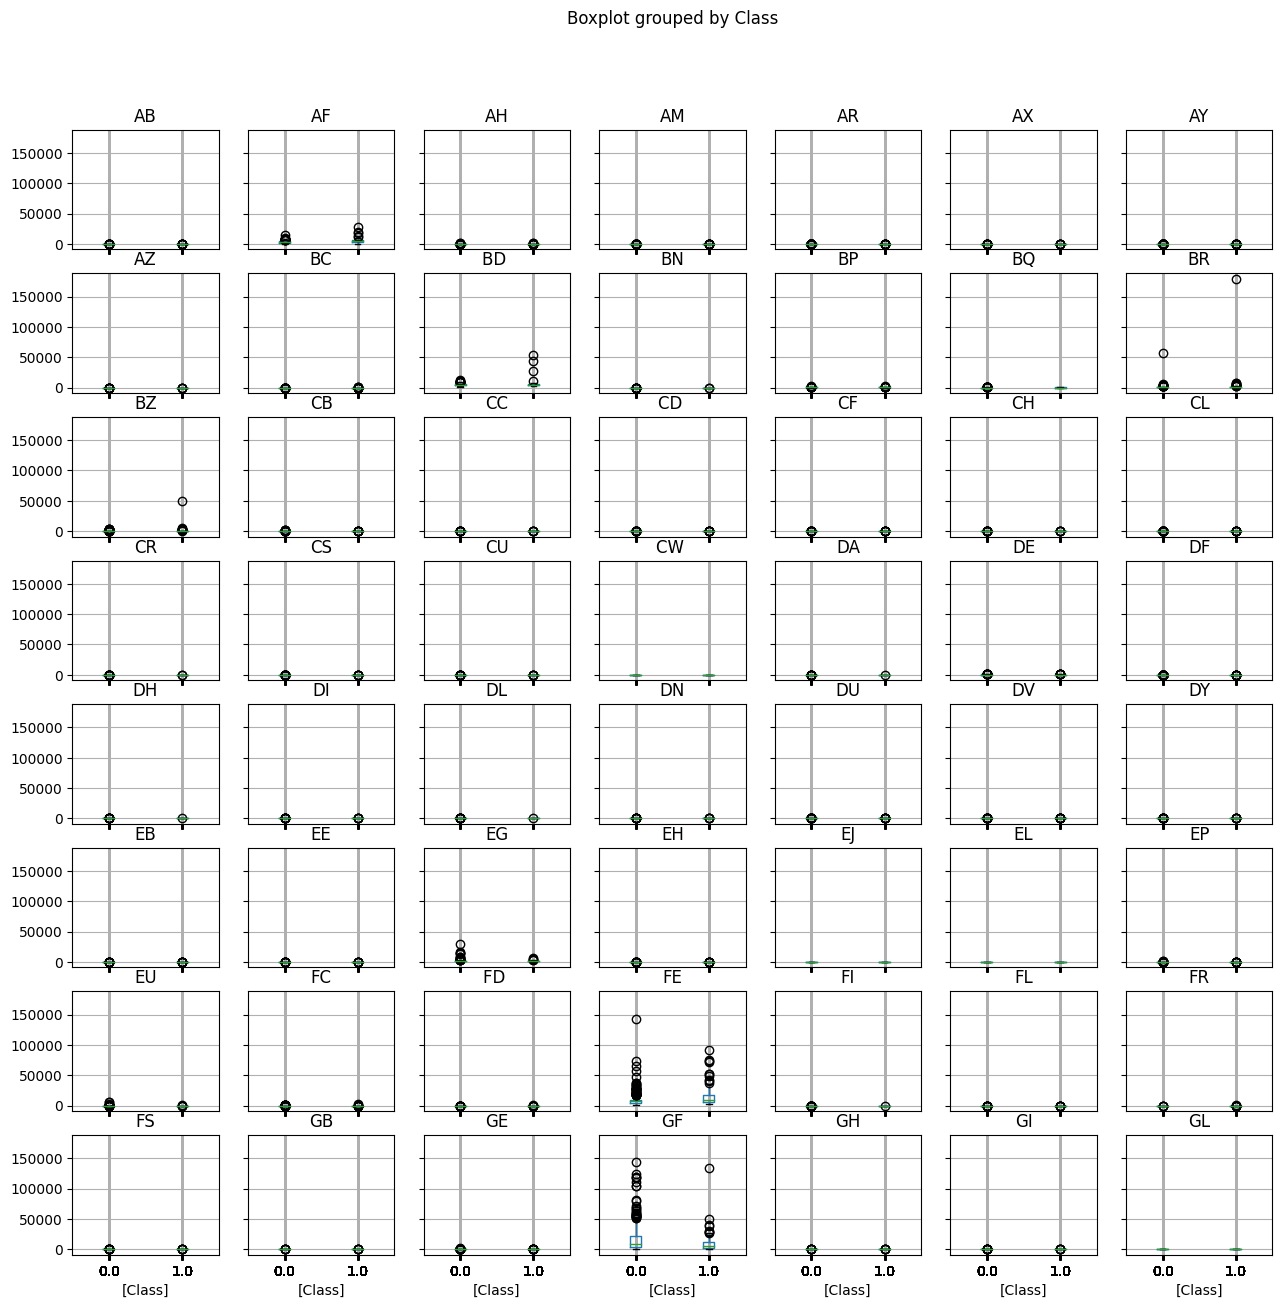
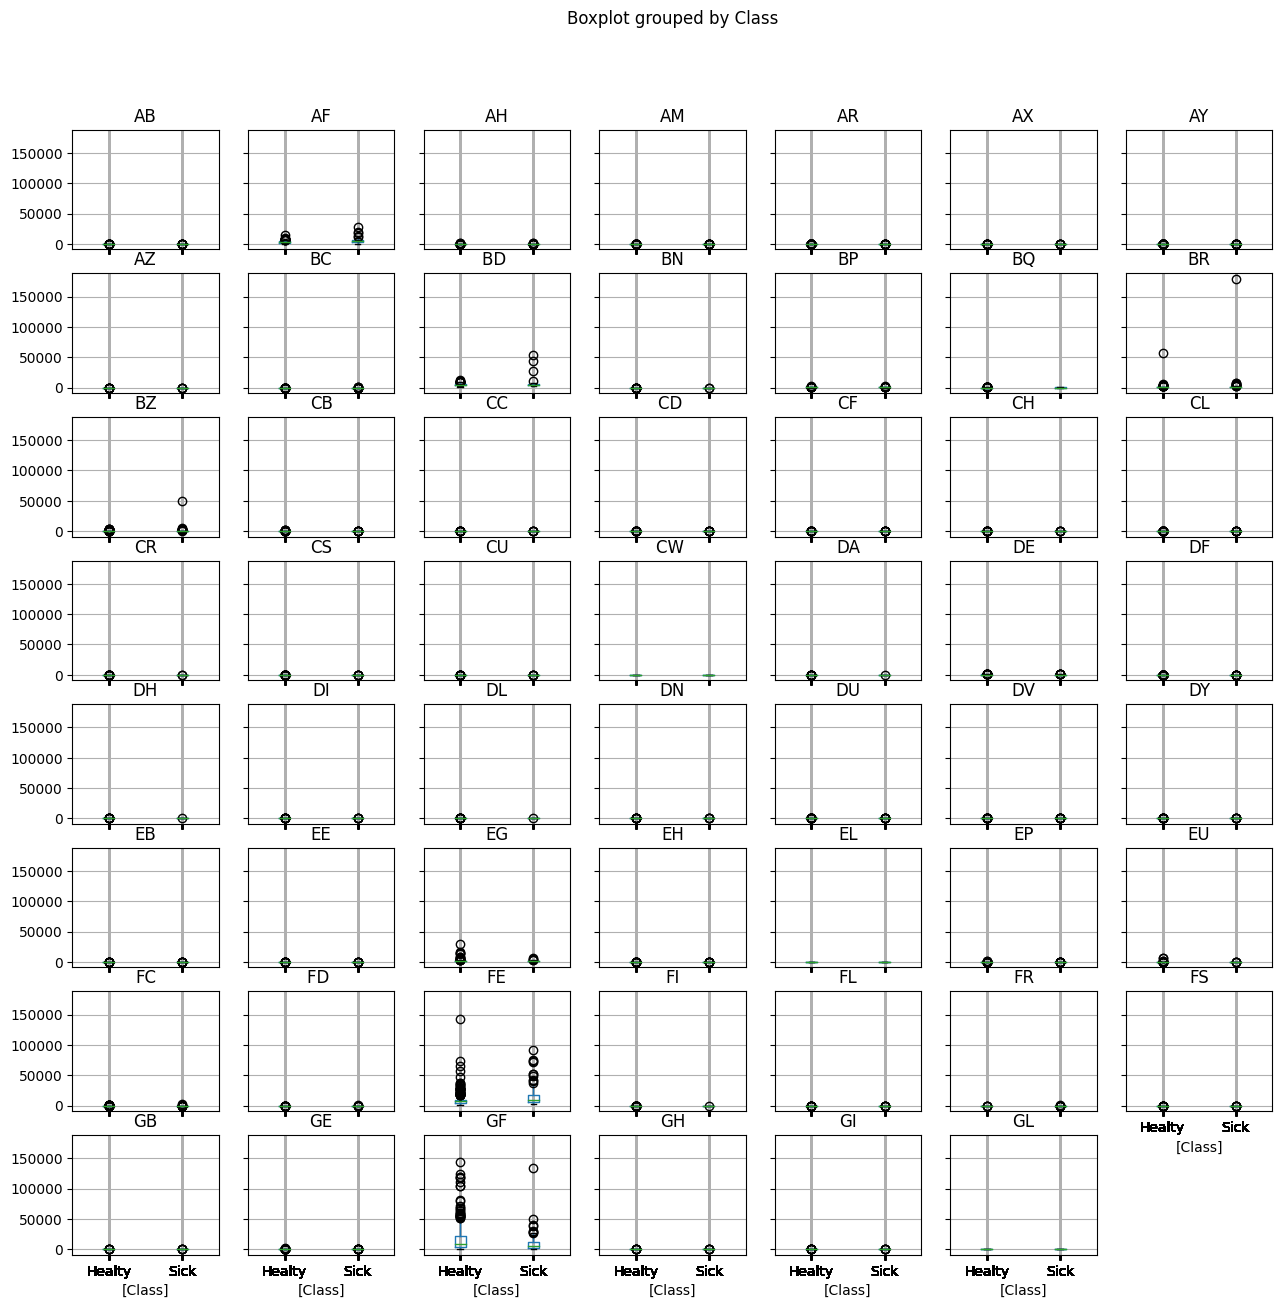
PCA Analysis

diff --git a/Main_code.py b/Main_code.py
@@ -27,30 +27,37 @@ print("Empty values: \n", train.isnull().sum())
 # ----------------------------------------- Fill empty values with KNN -----------------------------------------
 
 df_train = train.copy(deep=True)
+df_train["Class"] = df_train["Class"].replace(
+    {0: "Healthy", 1: "Sick"}
+)  # Turn Class to object dtype
 
-# Separate the sample names column (first column) from the rest of the data
-df_train_strings = df_train.iloc[:, :1]
-df_train_ints = df_train.iloc[:, 1:]
-
-# Separate categorical and numerical data
-categorical_data = df_train_ints.select_dtypes(include="object")
-numeric_data = df_train_ints.select_dtypes(include="number")
+categorical_data = df_train.select_dtypes(exclude="number")
+numeric_data = df_train.select_dtypes(include="number")
 
 # Initialize the KNN imputer
-imputer = KNNImputer(weights="distance", add_indicator=True)
+imputer = KNNImputer(weights="distance", add_indicator=False)
 
 # Fit and transform the imputer on the numeric data
 imputed_numeric_data = imputer.fit_transform(numeric_data)
 
 # Get the feature names including the added indicator columns
-imputed_columns = imputer.get_feature_names_out(input_features=numeric_data.columns)
+imputed_columns = imputer.get_feature_names_out(numeric_data.columns)
 
 # Convert the imputed numeric data back to a DataFrame
 imputed_df = pd.DataFrame(imputed_numeric_data, columns=imputed_columns)
 
 # Concatenate the imputed numeric data with the categorical data
-imputed_df = pd.concat([df_train_strings, imputed_df, categorical_data], axis=1)
+df_train = pd.concat([categorical_data, imputed_df], axis=1)
+print("Table: \n", df_train.head(10))
+print(df_train.dtypes)
 
+
+def Save_datafile(df):
+    path = "/home/sudenurcure/ICR-Identifying-Age-Related-Conditions/imputed_df.csv"
+    df.to_csv(path)
+
+
+"""
 # ----------------------------------------- Label Encode Categorical Data -----------------------------------------
 LE = LabelEncoder()
 imputed_df["EJ"] = LE.fit_transform(imputed_df["EJ"])
@@ -59,79 +66,82 @@ print("Empty values: \n", imputed_df.isnull().sum())
 print("Table: \n", imputed_df.head(10))
 
 
+
 # ----------------------------------------- Corrolation and Visualizations -----------------------------------------
 
-vis_df = imputed_df.drop(imputed_df.filter(regex=r"missing|Id").columns, axis=1)
+"""
 
 
 def Correlation_map(df):
     print("Corrolation Heatmap: \n")
-
     corrolation = df.corr(method="spearman", min_periods=0)
     dataplot_hm = sns.heatmap(df.corr(method="spearman", min_periods=0))
     plt.show()
 
+
+def Box_plot(df):
     print("Box plot: ")
     df.boxplot(by="Class", layout=(8, 7), figsize=(15, 15))
 
 
-def Save_datafile(df):
-    path = "/home/sudenurcure/ICR-Identifying-Age-Related-Conditions/imputed_df.csv"
-    df.to_csv(path)
+Correlation_map(df_train)
 
 
-# Correlation_map(vis_df)
+def PCA_dim_reduction(x):
+    pca_df = PCA(n_components=2)
+    principalComponents_df = pca_df.fit_transform(x)
+    principal_table_Df = pd.DataFrame(
+        data=principalComponents_df,
+        columns=["principal component 1", "principal component 2"],
+    )
+    print(principal_table_Df.tail())
+    print(
+        "Explained variation per principal component: {}".format(
+            pca_df.explained_variance_ratio_
+        )
+    )
+    # 80% information is lost. PCA 1 caught only 12% and PCA 2 caught only 8% of information.
+
+    return principal_table_Df
 
 
-def PCA_dim_reduction(df):
-    X, sorted_eig_vectors = PCA_analysis(df)
-    eig_scores = np.dot(X, sorted_eig_vectors[:, :2])
-    return eig_scores, sorted_eig_vectors
+def PCA_plot(df, principal_table_Df):
+    plt.figure()
+    plt.figure(figsize=(10, 10))
+    plt.xticks(fontsize=12)
+    plt.yticks(fontsize=14)
+    plt.xlabel("Principal Component - 1", fontsize=20)
+    plt.ylabel("Principal Component - 2", fontsize=20)
+    plt.title("Principal Component Analysis of ICR Dataset", fontsize=20)
+    targets = ["Healthy", "Sick"]
+    colors = ["r", "g"]
+    for target, color in zip(targets, colors):
+        indicesToKeep = df["Class"] == target
+        plt.scatter(
+            principal_table_Df.loc[indicesToKeep, "principal component 1"],
+            principal_table_Df.loc[indicesToKeep, "principal component 2"],
+            c=color,
+            s=50,
+        )
+
+    plt.legend(targets, prop={"size": 15})
 
 
 def PCA_analysis(df):
-    X = StandardScaler().fit_transform(df)
-    cov = (X.T @ X) / (X.shape[0] - 1)
-    eig_values, eig_vectors = np.linalg.eig(cov)
-    idx = np.argsort(eig_values)[::-1]
-    sorted_eig_vectors = eig_vectors[:, idx]
-    return X, sorted_eig_vectors
+    features = df.select_dtypes(include="number").columns
+    x = df.loc[:, features].values
+    x = StandardScaler().fit_transform(x)
+    print("shape: ", x.shape, "\nmean: ", np.mean(x), "\nstd: ", np.std(x))
+
+    feat_cols = ["feature" + str(i) for i in range(x.shape[1])]
+    normalised_df = pd.DataFrame(x, columns=feat_cols)
+    print(normalised_df.tail())
+    principal_table_Df = PCA_dim_reduction(x)
+    PCA_plot(df, principal_table_Df)
+    return 0
 
 
-def biplot(score, coeff, labels):
-    xs = score[:, 0]
-    ys = score[:, 1]
-    n = coeff.shape[0]
+PCA_analysis(df_train)
 
-    fig, ax = plt.subplots()
-
-    for i, u in enumerate(vis_df["Class"].unique()):
-        xi = score[vis_df["Class"] == u, 0]
-        yi = score[vis_df["Class"] == u, 1]
-        ax.scatter(xi, yi, label=u)
-
-    for i in range(n):
-        ax.arrow(
-            0, 0, coeff[i, 0], coeff[i, 1], color="r", head_width=0.05, head_length=0.1
-        )
-        ax.text(
-            coeff[i, 0] * 1.35,
-            coeff[i, 1] * 1.35,
-            labels[i],
-            color="g",
-            ha="center",
-            va="center",
-        )
-
-    plt.xlabel("PC{}".format(1))
-    plt.ylabel("PC{}".format(2))
-    plt.grid()
-    plt.legend()
-
-
-# Assuming vis_df is a global DataFrame variable containing the original data
-X, sorted_eig_vectors = PCA_dim_reduction(vis_df)
-biplot(X, sorted_eig_vectors, vis_df.columns)
-plt.show()
 
 # %%
